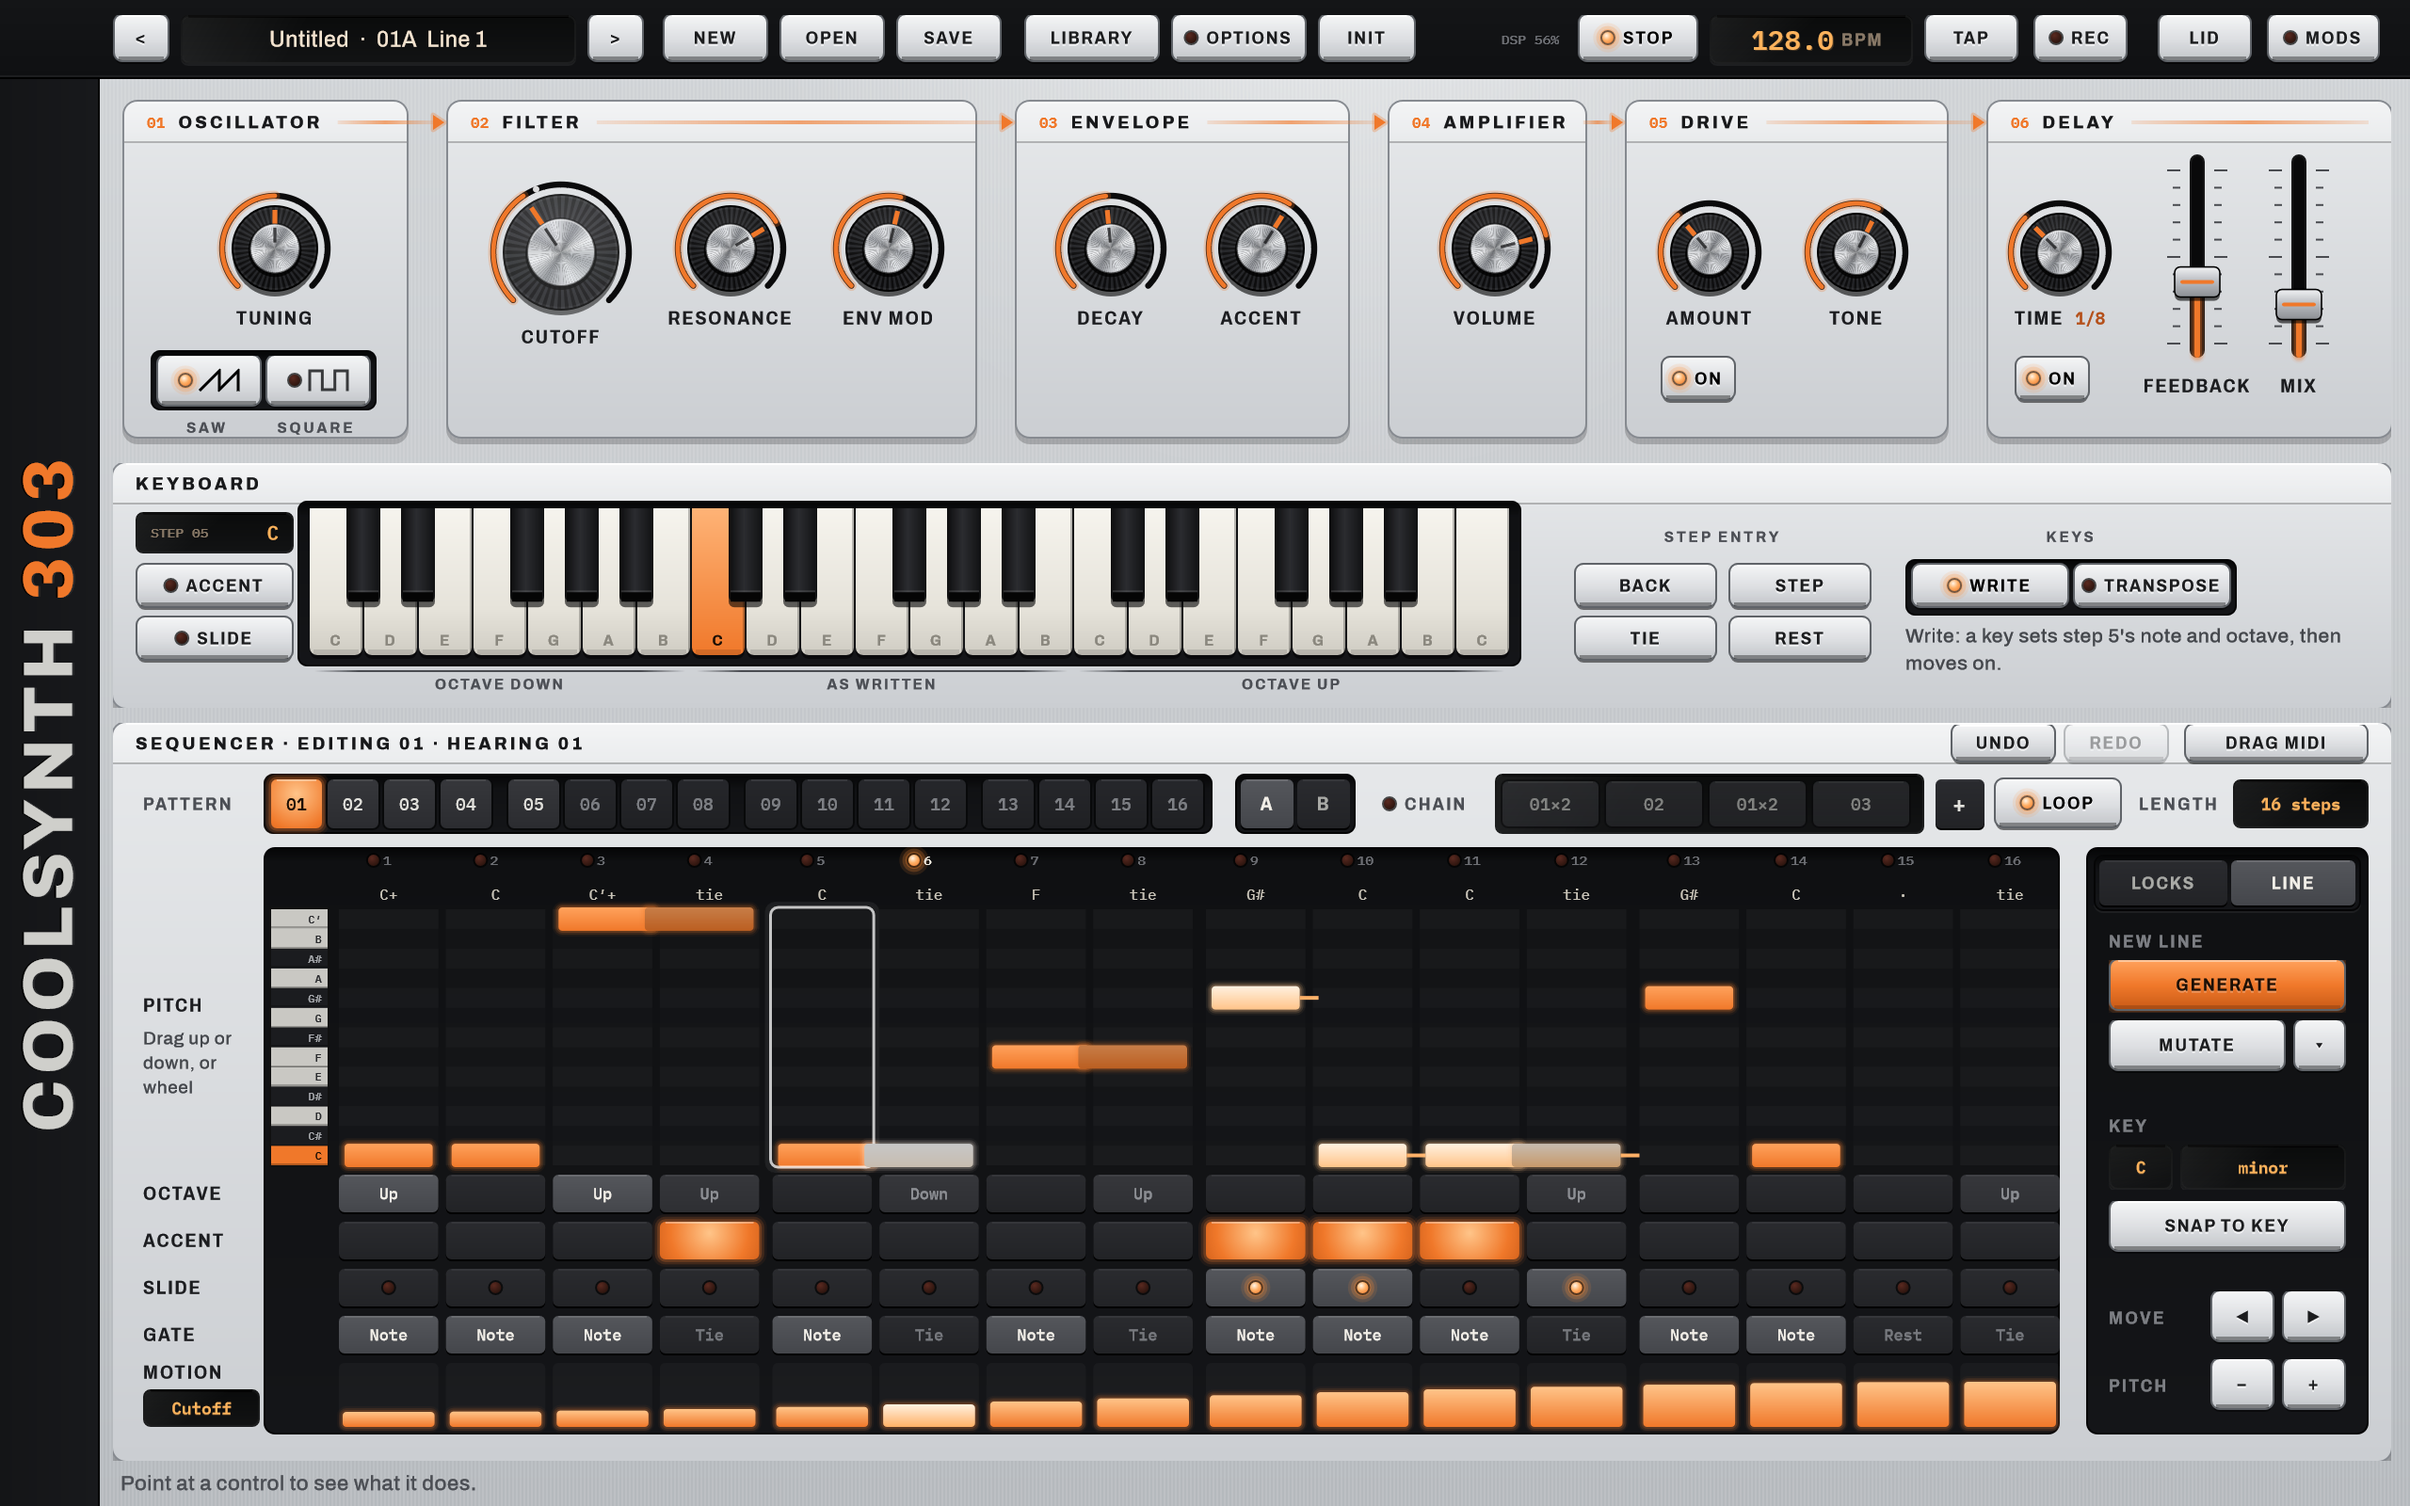
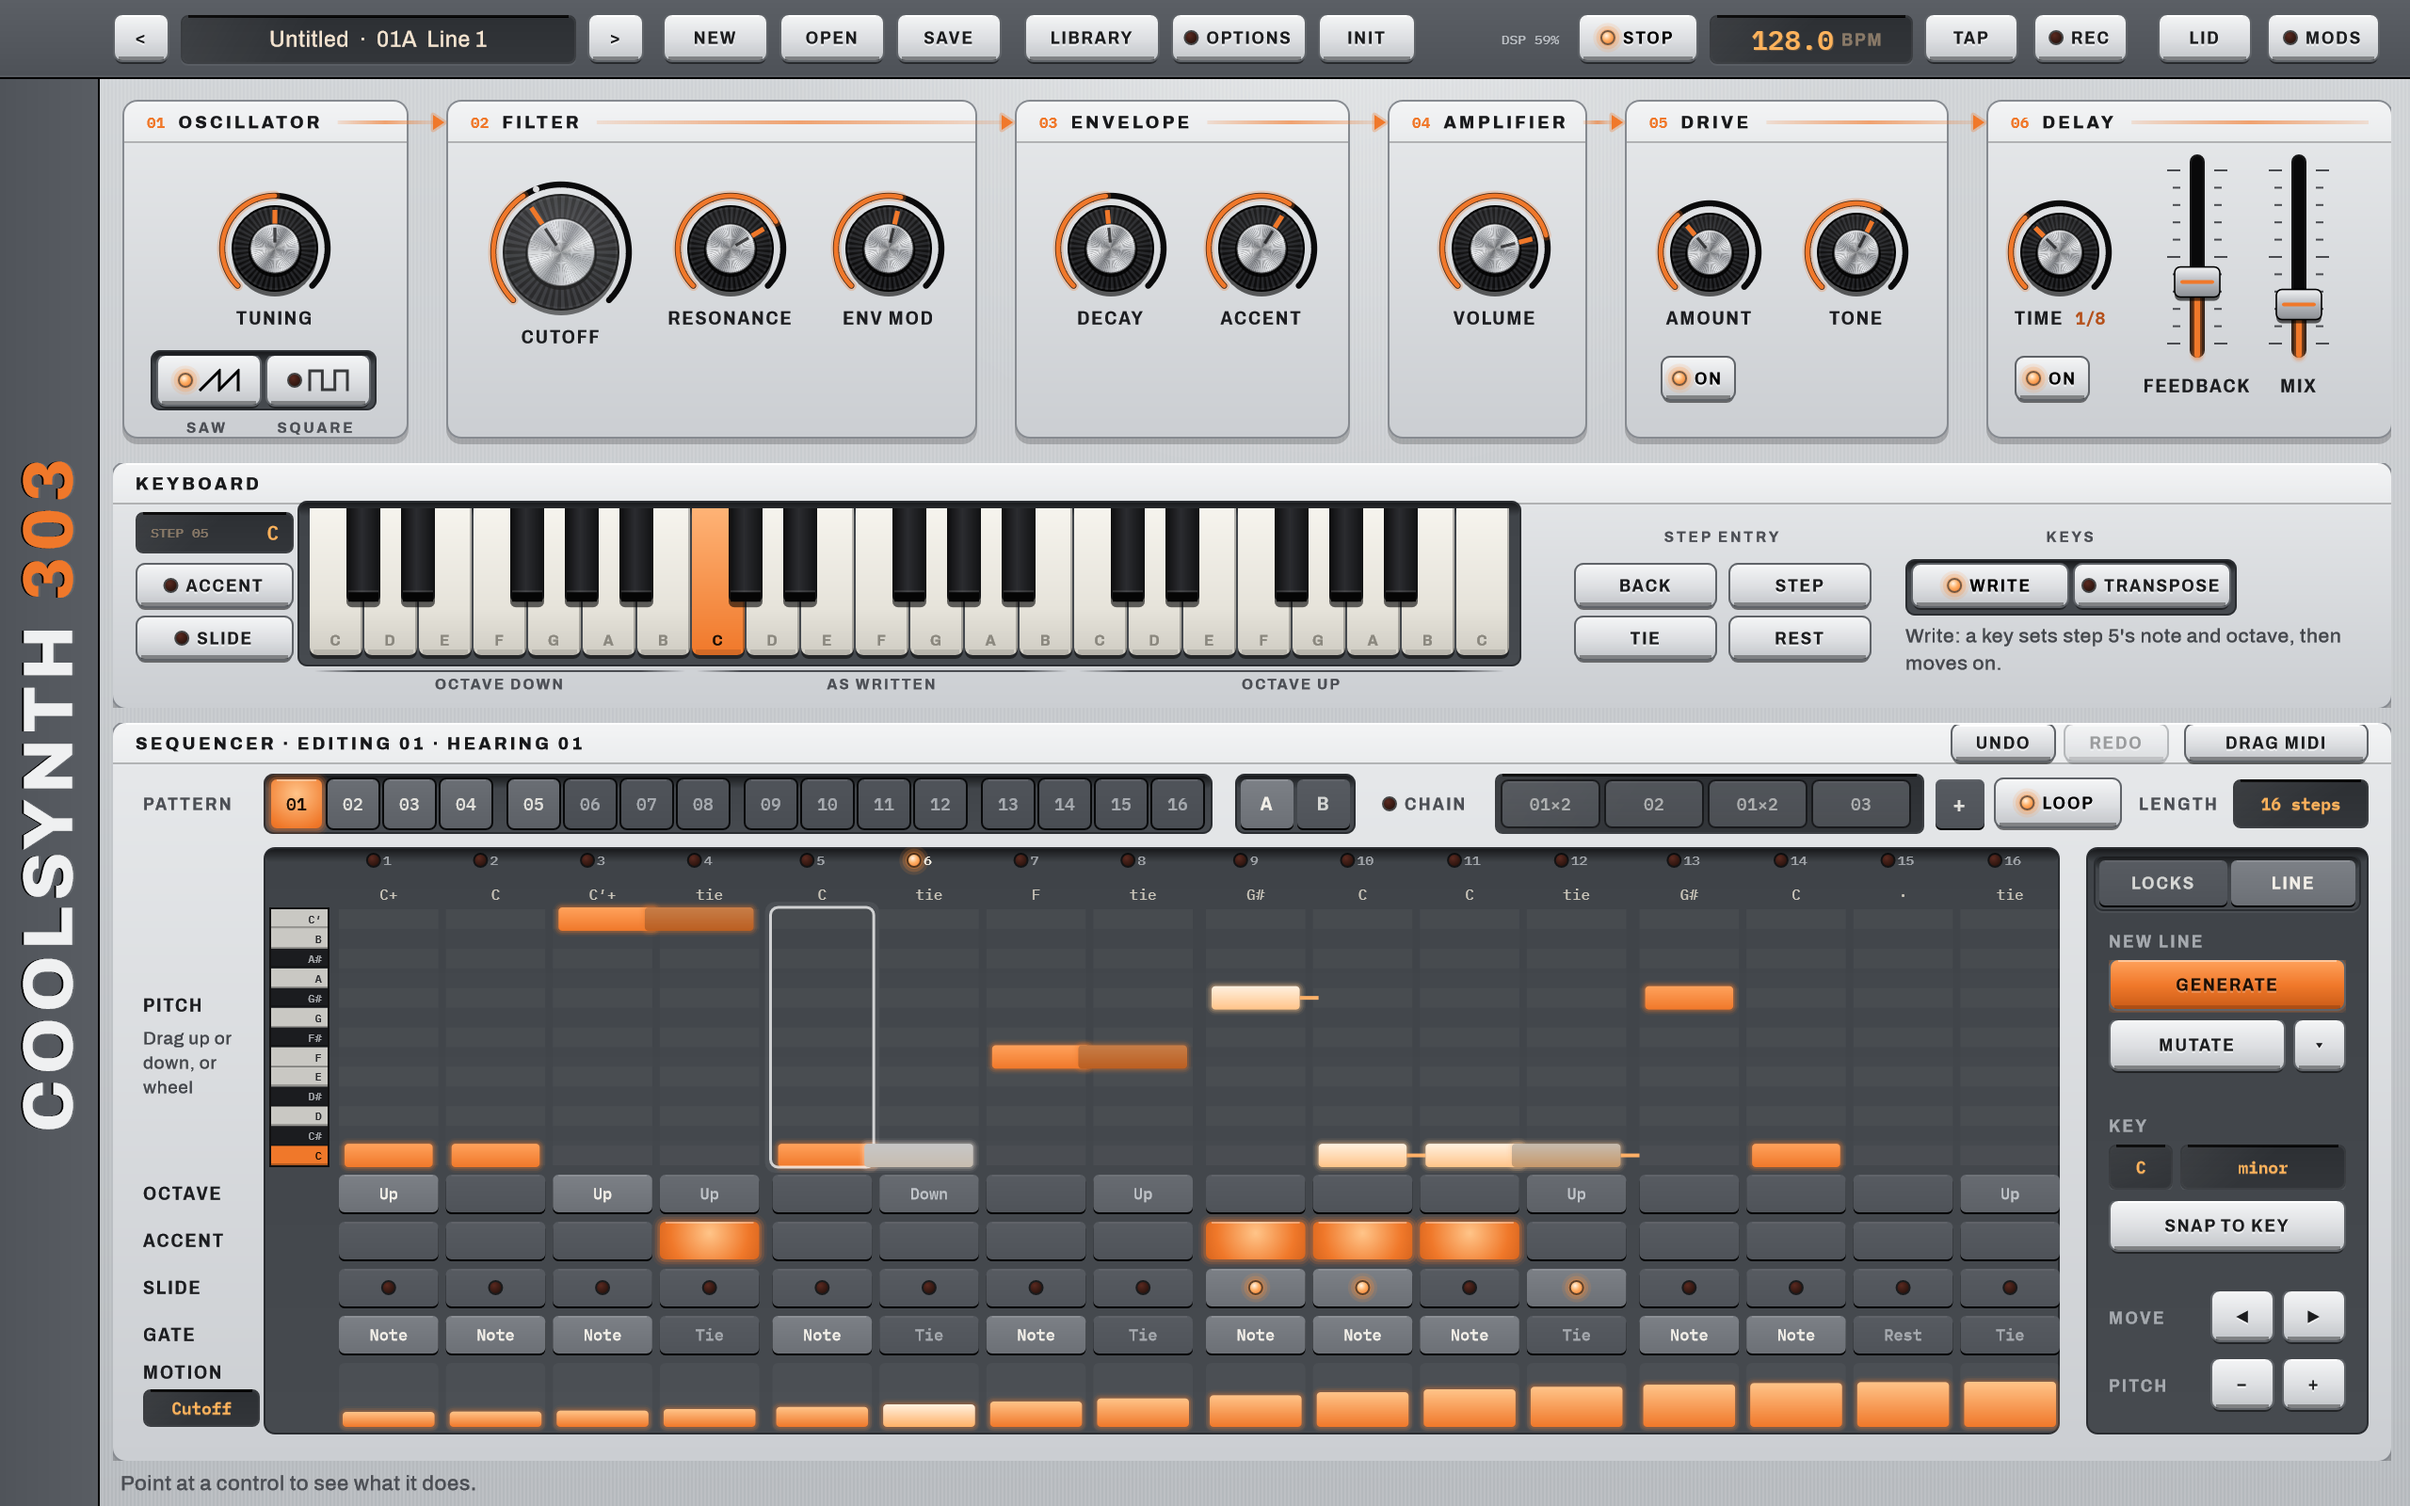
D352: Silver's frame, glass and dialogs a smoked mid grey
The user found Silver's black parts too hard against its light plates. Logged
in D352, with the new pictures of every theme and of Silver's library and
Options.

diff --git a/DECISIONS_LOG.md b/DECISIONS_LOG.md
@@ -7446,9 +7446,13 @@ Still alone, as D304; each with what else it could have been.
   screens', so on Silver the plates print dark and the screens stay light; the library, Options and the pop-up menus
   stay dark glass in every theme. A Theme row on Options' Panel page, kept in the app's settings; chosen, the whole
   panel redraws at once. The tests' pictures cover every theme (`303-themes/app-*.png`).
-- Then (the user): Silver's black strip and top bar against its light plates were too hard a step, Steel reads better.
-  Silver's frame (the name's strip, the top bar, the desk) is now a mid grey of its own; Options' page list a shade
-  under the dialog's glass in every theme, so it stays dark.
+- Then (the user): on Silver the black strip, top bar, grid and side column against the light plates were too hard a
+  step, Steel reads better; check every part, the dialogs too. Silver's frame, screens, bays, cells and dialogs are now
+  a smoked mid grey of their own, the displays a little darker for their amber; the grid's quieter inks (step numbers,
+  a tie's or rest's gate, a held octave, a slot's number) became roles, so they lift with it (Graphite's values kept).
+  The library's list and search field take a theme's change while open, and its chosen row is the dialog's ground
+  warmed by the theme's orange. Options' page list a shade under the dialog's ground in every theme. The tests now
+  also picture the library and Options' pages in every theme.
 
 ## D353. CoolSynth 303: a hint line at the foot, and controls that light under the mouse (2026-11-25)
 
